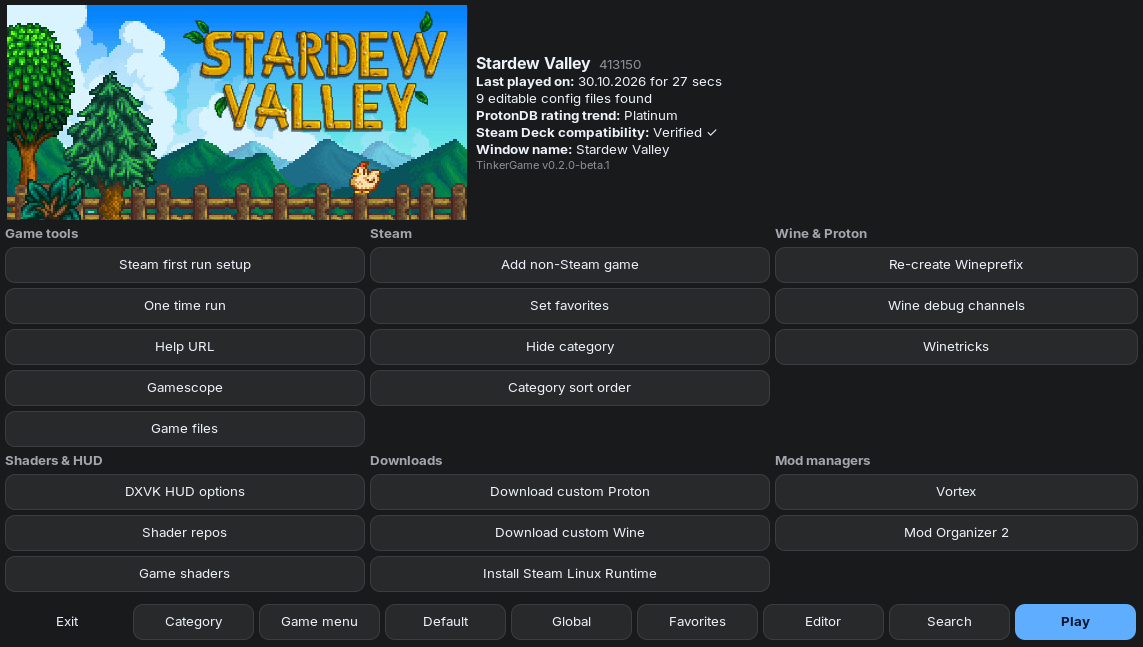
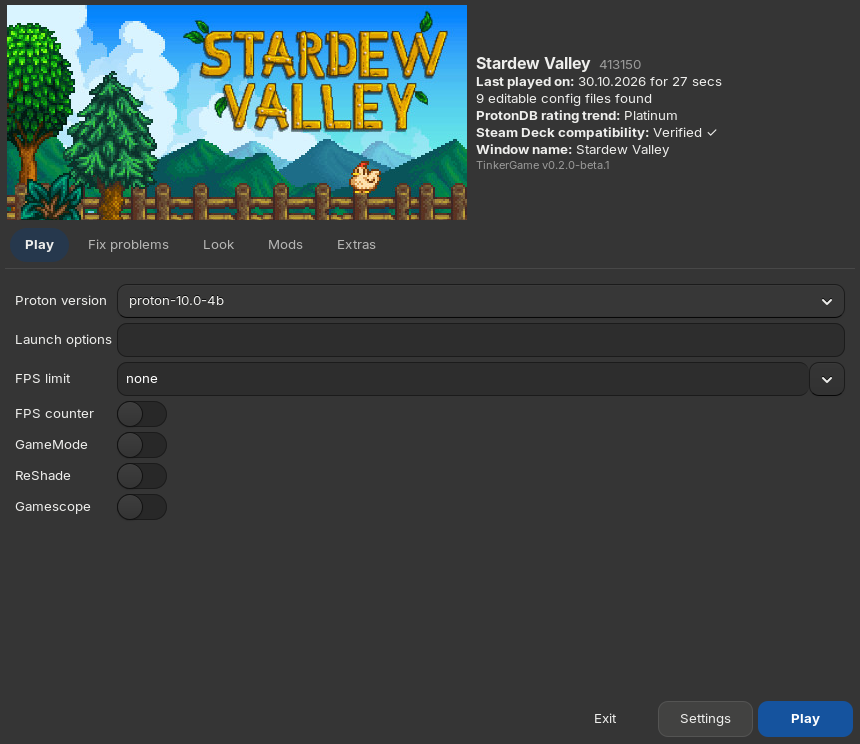
docs: show the tabbed main menu and mention Protontricks and Proton auto-updates

diff --git a/README.md b/README.md
@@ -28,7 +28,8 @@ wiki page with the F1 key.
 ## What It Provides
 
 - Per-game environment variables, launch commands, executables, and scripts.
-- Proton and Wine selection, downloads, and prefix tools.
+- Proton and Wine selection, downloads, and prefix tools, with GE-Proton and
+  CachyOS Proton kept up to date automatically.
 - Gamescope, MangoHud, GameMode, DXVK, VKD3D, FSR, and related options.
 - Mod Organizer 2, Vortex, ReShade, Special K, Hedge Mod Manager, and other
   integrations.
@@ -96,6 +97,10 @@ generation and scaling for any Vulkan game. It is not in the distribution
 repositories: install it from its
 [releases](https://github.com/eugeniosegala/MAKO/releases), or on Arch from the
 AUR packages `mako-render` and `lib32-mako-render`.
+
+[Protontricks](https://github.com/Matoking/protontricks) is optional. The
+Install Windows components tool uses it to open Winetricks with the game's
+Proton version, and falls back to plain Winetricks without it.
 
 When installed for the current user, make sure `~/.local/bin` is in `PATH`.
 
